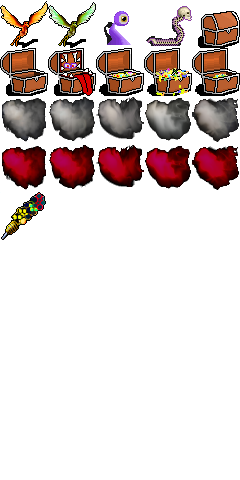
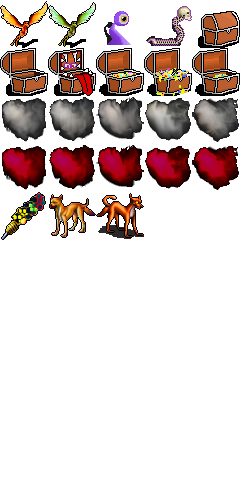
merchant update#1

Changed region(s): [[0.2042, 0.4062, 0.6125, 0.5]]

diff --git a/README.md b/README.md
@@ -75,6 +75,11 @@ tiles/Made_with_AI.pngを参照
 
 
 ver 2.3.6
+ダンジョンショップの店員をが番犬召喚魔法を取得。
+召喚：竜巻がちゃんと機能していなかったのを修正
+
+
+ver 2.3.6
 ショップアイテムのバラエティを豊かに（巻物、ポーション、蜂蜜シロップ、ユニーク武器など）
 ダンジョンショップの店員を大幅強化（強盗対策）
 
